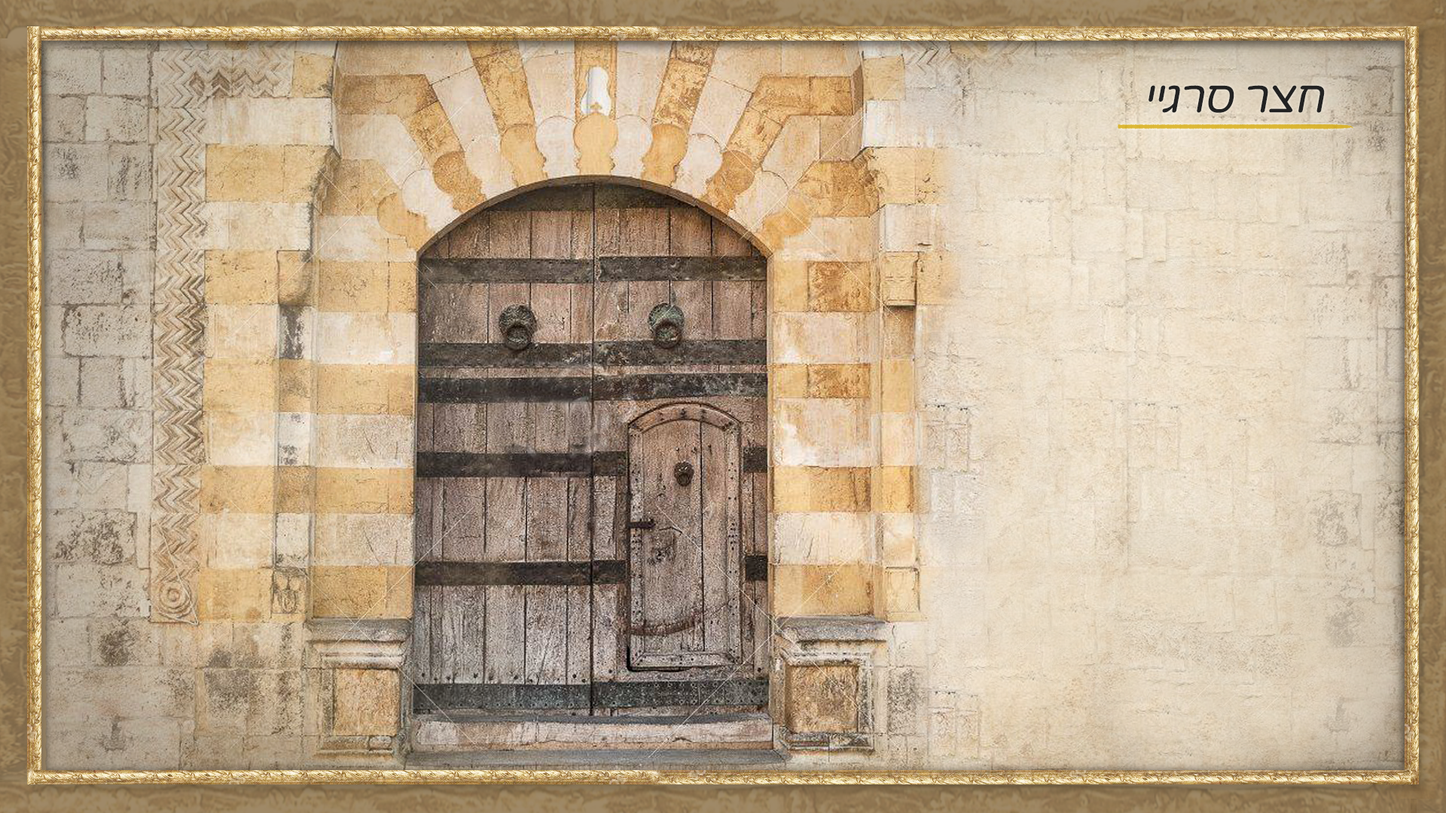
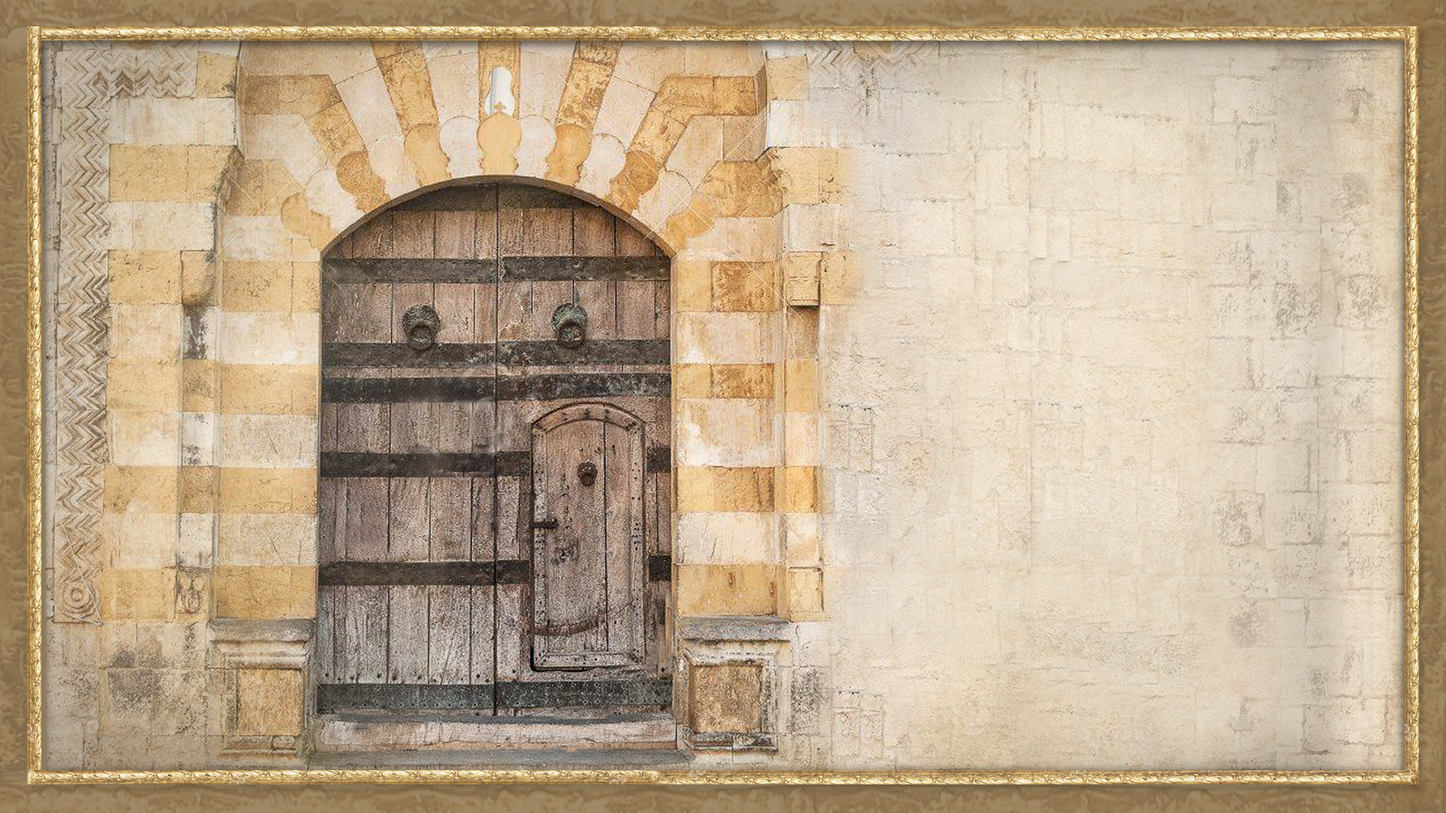
bugs and more assets

diff --git a/src/TextInserterParticular.js b/src/TextInserterParticular.js
@@ -5,9 +5,10 @@ import LangContext from './SergiContext';
 import russianText from './russianText';
 import englishText from './englishText';
 import hebrewText from './hebrewText';
-import headerUnderline from './14_Headerunderline.png';
 import {timer, removeTimer} from './TimerHundler';
 import upperTextArrow from './11_textArrowUP.png';
+import RighToLeftTitle from './RightToLeftTitle';
+import LeftToRightTitle from './LeftToRightTitle'
 import './Styles.css';
 
 function TextInserterParticular ({typeOfInfo, homeBtnLogic}){
@@ -76,20 +77,17 @@ function TextInserterParticular ({typeOfInfo, homeBtnLogic}){
 
  
   return (
-      <div className={isLeftToRight()?'infoTextBoxLeftToRight':'textBoxCss'}>
-        {isLeftToRight()?<div className='enInfoTitle'>
-            <h1 className='titleFont frontPageEnTitle'>{titleToInsert()}</h1>
-            <img alt='underline' src={headerUnderline} className='frontPageUnderline'/>
-          </div>:<div>
-            <h1 className='titleFont heInfoPageTitle'>{titleToInsert()}</h1>
-            <img alt='underline' src={headerUnderline} className='heInfoPageUnderline'/>
-          </div>}
-            {isTopScrollBtn?<img onClick={()=>{resetTimer(); scrollAndUpdateUp()}} src={upperTextArrow} alt="scrollBtn" className={isLeftToRight()?'topInfoScrollEn':'topScrollOneHE'}/>:null}
-            <p className={isLeftToRight()?'infoEnText':'textCss'} id="particularTextBox"> 
-                {infoToInsert()}
-            </p>
-            {isButtomScrollBtn?<img onClick={()=>{resetTimer(); scrollAndUpdateDown()}} src={scrollBtn} alt="scrollBtn" className={isLeftToRight()?'buttomInfoScroll':'buttomScrollOneHE'}/>:null}
-        </div>
+
+            <div className={isLeftToRight()?'infoTextBoxLeftToRight':'textBoxCss'}>
+            {isLeftToRight()?
+            <LeftToRightTitle titleToInsert={titleToInsert()}/>:
+            <RighToLeftTitle titleToInsert={titleToInsert()}/>}
+                {isTopScrollBtn?<img onClick={()=>{resetTimer(); scrollAndUpdateUp()}} src={upperTextArrow} alt="scrollBtn" className={isLeftToRight()?'topInfoScrollEn':'topScrollOneHE'}/>:null}
+                <p className={isLeftToRight()?'infoEnText':'textCss'} id="particularTextBox"> 
+                    {infoToInsert()}
+                </p>
+                {isButtomScrollBtn?<img onClick={()=>{resetTimer(); scrollAndUpdateDown()}} src={scrollBtn} alt="scrollBtn" className={isLeftToRight()?'buttomInfoScroll':'buttomScrollOneHE'}/>:null}
+            </div>
         );
 }
 

diff --git a/src/TextInserter.js b/src/TextInserter.js
@@ -11,18 +11,26 @@ import seeMoreEN from './09_Touchtoseemore.png';
 import seeMoreHE from './13_extraInfoHe.png';
 import headerUnderline from './14_Headerunderline.png';
 import upperTextArrow from './11_textArrowUP.png';
+import hebrewHeader from './23_title_HEB.png';
 import './Styles.css';
 
 function TextInserter (){
 
     const lang = useContext(LangContext).lang;
-    const [russianTextToShow] = useState(JSON.parse(JSON.stringify(russianText)).frontPage);
-    const [englishTextToshow] = useState(JSON.parse(JSON.stringify(englishText)).frontPage);
-    const [hebrewTextToShow] = useState(JSON.parse(JSON.stringify(hebrewText)).frontPage);
-
-
     const [isTopScrollBtn, setIsTopScrollBtn] = useState(false);
     const [isButtomScrollBtn, setIsButtomScrollBtn] = useState(true);
+
+    function whichFileToUse (){
+        if(lang==="hebrew"){
+            return JSON.parse(JSON.stringify(hebrewText.frontPage));
+        }
+        if(lang==="english"){
+            return JSON.parse(JSON.stringify(englishText.frontPage));
+        }
+        else{
+            return JSON.parse(JSON.stringify(russianText.frontPage));
+        }
+    }
     
     const  scrollAndUpdateDown=()=> {
 
@@ -62,12 +70,10 @@ function TextInserter (){
     {isLeftToRight()?<div>
             <h1 className='titleFont frontPageEnTitle'>{lang==="english"?'Sergi Courtyard':'реформирует'}</h1>
             <img alt='underline' src={headerUnderline} className='frontPageUnderline'/>
-          </div>:null}
+          </div>:<img alt='hebHeader' src={hebrewHeader} className='frontPageHeTitle'/>}
           {isTopScrollBtn?<img onClick={scrollAndUpdateUp} id="scrollBtnPng" src={upperTextArrow} alt="scrollBtn" className={isLeftToRight()?'topScrollOneEN':'topScrollOneHE'}/>:null}
             <p className={isLeftToRight()?'lefToRightTexstCss':'textCss'} id="openingTextBox"> 
-                {lang==="hebrew"?hebrewTextToShow
-                :lang==="english"?englishTextToshow
-                :russianTextToShow}
+                {whichFileToUse()}
             </p>
             {isButtomScrollBtn?<img onClick={scrollAndUpdateDown} id="scrollBtnPng" src={scrollBtn} alt="scrollBtn" className={isLeftToRight()?'buttomScrollOneEN':'buttomScrollOneHE'}/>:null}
         </div>

diff --git a/src/HomeBtn.js b/src/HomeBtn.js
@@ -1,14 +1,22 @@
 /* eslint-disable jsx-a11y/alt-text */
-import React from 'react';
+import React, {useEffect} from 'react';
 import isLeftToRight from './IsLeftToRightFunc';
 import './Styles.css';
 
 
 function HomeBtn ({homeBtnLogic}) {
 
+
+    useEffect(
+        () => {
+            document.getElementById('homeBtn').disabled = true;
+            setTimeout(function(){ document.getElementById('homeBtn').disabled = false }, 2000);
+        // eslint-disable-next-line react-hooks/exhaustive-deps
+        }, []);
+
     return (
 
-        <button onClick={homeBtnLogic} className={isLeftToRight()?'homeBtn':'rightToLeftHomeBtn'}>Home</button>
+        <button id='homeBtn' onClick={homeBtnLogic} className={isLeftToRight()?'homeBtn':'rightToLeftHomeBtn'} >Home</button>
     
     );
   }

diff --git a/src/ParticularInfoPage.js b/src/ParticularInfoPage.js
@@ -60,7 +60,7 @@ function ParticularInfoPage ({backBtnLogic, homeBtnLogic, typeOfParticularInfo})
             <img src={pictureToRender()} alt='backgroundImage' className='particularBackGround'></img>
             <button onClick={backBtnLogic} id='backBtn' className={isLeftToRight()?'backBtn':'backBtnRightToLeft'}>back</button>
             <HomeBtn homeBtnLogic={homeBtnLogic} />
-            <TextInserter typeOfInfo={typeOfParticularInfo} homeBtnLogic={homeBtnLogic}/>:<TextInserter/>}
+            <TextInserter typeOfInfo={typeOfParticularInfo} homeBtnLogic={homeBtnLogic}/>
           </>
         );
     

diff --git a/src/VideoComp.js b/src/VideoComp.js
@@ -8,13 +8,10 @@ import './Styles.css';
 
 
 function VideoComp({playVideoLogic}) {
-  
 
   return (
     
-    <video onClick={playVideoLogic} id='zoomInVideo' poster={isLeftToRight()?leftVideoPoster:videoPoster} className='videoStyle'>
-        <source src={isLeftToRight()?videoZoomInEN:videoZoomInHE}></source>
-    </video>
+    <video onClick={playVideoLogic} id='zoomInVideo' src={isLeftToRight()?videoZoomInEN:videoZoomInHE} poster={isLeftToRight()?leftVideoPoster:videoPoster} className='videoStyle' />
   );
 }
 

diff --git a/src/LeftToRightTitle.js b/src/LeftToRightTitle.js
@@ -1,0 +1,17 @@
+import React from 'react';
+import headerUnderline from './14_Headerunderline.png';
+import './Styles.css';
+
+
+function RightToLeftTitle ({titleToInsert}){
+
+    return (
+
+    <div className='enInfoTitle'>
+        <h1 className='titleFont frontPageEnTitle'>{titleToInsert}</h1>
+        <img alt='underline' src={headerUnderline} className='frontPageUnderline'/>
+    </div>
+            );
+
+}
+export default RightToLeftTitle;

diff --git a/src/RightToLeftTitle.js b/src/RightToLeftTitle.js
@@ -1,0 +1,17 @@
+import React from 'react';
+import headerUnderline from './14_Headerunderline.png';
+import './Styles.css';
+
+
+function RightToLeftTitle ({titleToInsert}){
+
+    return (
+
+        <div>
+            <h1 className='titleFont heInfoPageTitle'>{titleToInsert}</h1>
+            <img alt='underline' src={headerUnderline} className='heInfoPageUnderline'/>
+        </div>
+            );
+
+}
+export default RightToLeftTitle;

diff --git a/src/InfoPage.js b/src/InfoPage.js
@@ -24,7 +24,7 @@ function InfoPage({moveToParticularInfo, homeBtnLogic}) {
 
         useEffect(
         () => {
-        timer(homeBtnLogic); 
+        timer(homeBtnLogic);
 
         return () => { // Return callback to run on unmount.
             

diff --git a/src/Styles.css b/src/Styles.css
@@ -221,6 +221,12 @@ font-family: titleFont;
     margin-left: 21%;
     margin-bottom: 0%;
 }
+.frontPageHeTitle{
+    height: 100px;
+    position: fixed;
+    top: 2%;
+    right: 6%;
+}
 .frontPageUnderline{
     margin-left: 18%;
 }

diff --git a/src/IsLeftToRightFunc.js b/src/IsLeftToRightFunc.js
@@ -6,8 +6,6 @@ import LangContext from './SergiContext';
 function IsLeftToRight () {
 
     const { lang } = useContext(LangContext);
-
-
     
     if(lang==="english" || lang==="russian"){
         return true;
